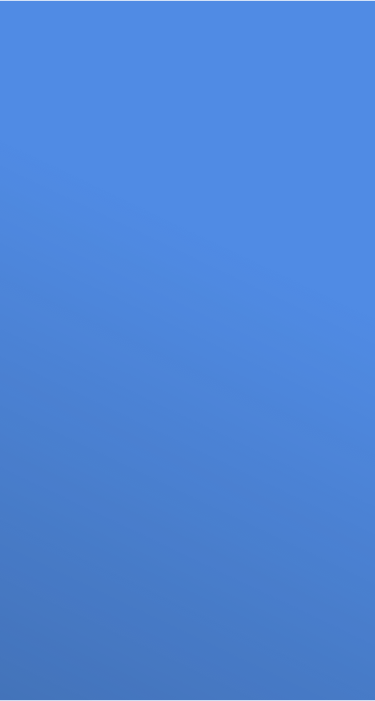
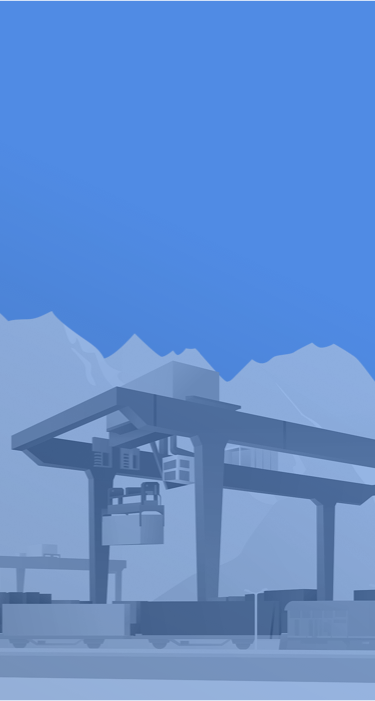
Few other small changes

diff --git a/home.html b/home.html
@@ -25,17 +25,16 @@
         <div style="text-align: center; padding-top: 50px;" class="hidden-sm hidden-md hidden-lg"><img id="wabtecLogoMobile" src="assets/images/logo.png"></div>
 
         <div id="imageText" class="hidden-xs">
-            <div id="wabtecDesignSystem">WABTEC'S NEW DESIGN SYSTEM</div>
-            <div id="torqHeader">TORQ DESIGN</div>
-            <p id="headerText">Lorem ipsum dolor sit amet, consectetur adipiscing elit, sed do eiusmod tempor incididunt ut labore et dolore magna aliqua. Ut enim ad minim veniam</p>
+            <div id="wabtecDesignSystem">Wabtec's Design System</div>
+            <p id="headerText">Learn and experience everything about our new design system that makes product teams workflows flexible and collaborative for everyone.</p>
             <button id="buildBtn"><a href="https://wabtec.invisionapp.com/dsm/torq-design" style="color: white;" target="_blank">Start Building</a></button>
         </div>
     </section>
 
     <div id="maindiv">
         <section id="bodySection" class="row">
-            <div class="col-sm-12 bigHeader" style="text-align: center;">
-                Wabtec's New Design System
+            <div class="col-sm-12 bigHeader mobileView" style="text-align: center;">
+                Wabtec's Design System
             </div>
             <div class="col-sm-12 hidden-xs" style="text-align: center;">
                 Torq is a human-focused design system crafted around user-feedback  and industry foresight. Our purpose and mission is to provide an adaptable and intuitive design system for creating world-class solutions in the transportation industry. Through quicker workflows, streamlined communication techniques and an emphasis on safety, Torq is a service that enables.
@@ -43,10 +42,10 @@
             <div class="col-xs-12 learn-and-experience hidden-sm hidden-md hidden-lg" style="text-align: center;">
                 Learn and experience everything about our new design system that makes product teams workflows flexible and collaborative for everyone.
             </div>
-            <div style="text-align: center; padding-top: 16px; margin-top: 150px;"><button id="buildBtn" class="hidden-sm hidden-md hidden-lg"><a href="https://wabtec.invisionapp.com/dsm/torq-design" style="color: white;" target="_blank">Start Building</a></button></div>
+            <div style="text-align: center; padding-top: 16px;"><button id="buildBtn" class="hidden-sm hidden-md hidden-lg"><a href="https://wabtec.invisionapp.com/dsm/torq-design" style="color: white;" target="_blank">Start Building</a></button></div>
         </section>
 
-        <img class="hidden-sm hidden-md hidden-lg" style="position: absolute; top: 250px; z-index: -100;" src="assets/images/mobile/background-header.png">
+        <img class="hidden-sm hidden-md hidden-lg" style="position: absolute; top: 250px; z-index: -100; width: 100%;" src="assets/images/mobile/background-header.png">
         <div class="mobileTorqDescription hidden-sm hidden-md hidden-lg" style="text-align: center;">
             <div class="col-xs-12 wabtec-s-design-syst">
                 Wabtec's Design System

diff --git a/assets/css/styles.css b/assets/css/styles.css
@@ -27,6 +27,9 @@ p{
 #laptopDisplay{
     margin-top: 120px;
 }
+#torqQualities, #resourcesSection, #articlesSection{
+    font-size: 16px;
+}
 
 #wabtecLogo{
     position: absolute;
@@ -57,6 +60,7 @@ p{
         font-family: 'Roboto', sans-serif;
         font-size: 16px;
         line-height: 26px;
+        margin-bottom: 20px;
 }
 
 #torqHeader{
@@ -71,14 +75,7 @@ p{
 
 
 #wabtecDesignSystem{
-        height: 30px;
-        width: 422px;
-        color: #508BE4;
-        font-family: 'Roboto', sans-serif;
-        font-size: 15px;
-        font-weight: bold;
-        line-height: 30px;
-        margin-bottom: -15px;
+    height: 100px;	width: 400px;	color: #508BE4;	font-family: Roboto;	font-size: 48px;	font-weight: 900;	line-height: 50px; margin-bottom: 20px; 
 }
 
 
@@ -95,8 +92,9 @@ p{
 #bodySection div:nth-of-type(2){
         text-align: center;
         max-width: 698px;
-        margin-left: 24%;
+        margin-left: auto;
         margin-right: auto;
+        float: inherit;
         color: #000000;
         font-family: 'Roboto', sans-serif;
         font-size: 16px;
@@ -351,7 +349,9 @@ p{
     }
     .learn-and-experience {
         height: 124px;
-        margin-left: 11%;
+        margin-left: auto;
+        margin-right: auto;
+        float: inherit;
         width: 320px;
         color: #000000;
         font-family: Roboto;
@@ -375,14 +375,15 @@ p{
         font-size: 16px;
         line-height: 30px;
         text-align: center;
+        float: inherit;
         width: 293px;
         margin-left: 12%;
     }
     #torqQualities{
-        margin-top: 700px;
+        margin-top: 70px;
         font-size: 16px;
-        margin-left: 20px;
-        margin-right: 20px;
+        margin-left: auto;
+        margin-right: auto;
     }
     .torqQ{
         padding-top: 60px;
@@ -430,5 +431,8 @@ p{
     #articlesSection{
         padding-bottom: 0px;
         margin-bottom: -50px;
+    }
+    .mobileView{
+        color: #508BE4;	font-family: Roboto;	font-size: 36px; margin-bottom: 35px;
     }
 }
